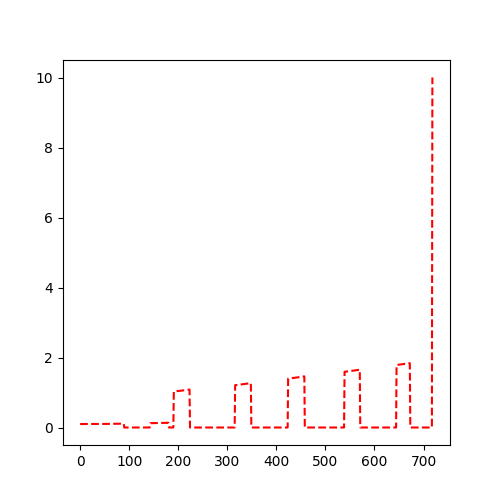
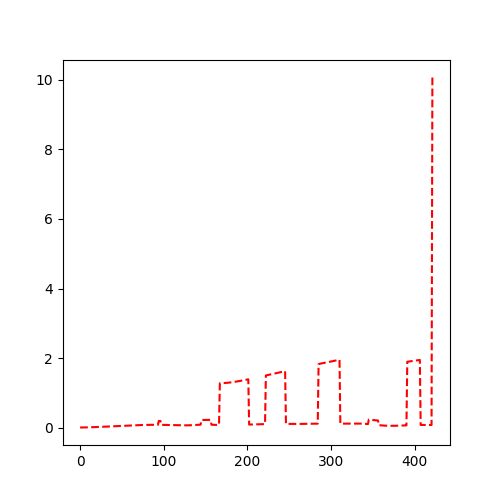
commit exp 7 reward modification

diff --git a/simulations/point.py b/simulations/point.py
@@ -49,11 +49,14 @@ class PointEnv(AgentModel):
 
     def step(self, action: np.ndarray) -> Tuple[np.ndarray, float, bool, dict]:
         self.sim.data.ctrl[:] = action
+        prev_pos = self.get_xy().copy()
         for _ in range(0, self.frame_skip):
             self.sim.step()
         next_obs = self._get_obs()
-    
-        return next_obs, 0.0, False, {}
+        pos = self.get_xy().copy()
+        reward = np.linalg.norm(pos - prev_pos)
+
+        return next_obs, reward, False, {}
 
     def _get_obs(self):
         return np.flipud(self.sim.render(
